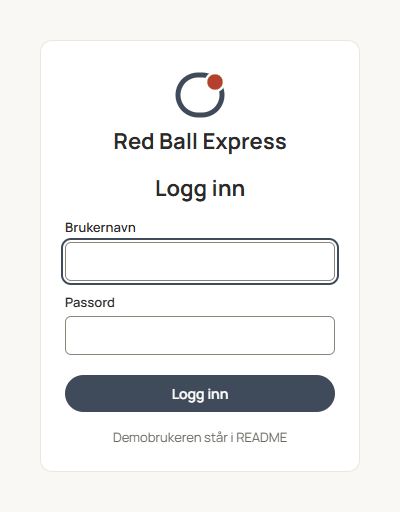
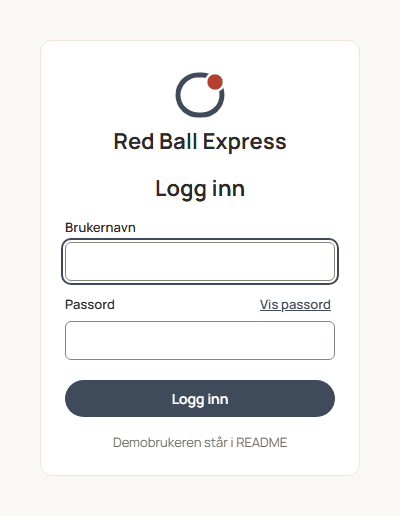
FR-1: legg til knapp for å vise og skjule passordet på innloggingssiden
Tekstknappen «Vis passord» / «Skjul passord» står til høyre for etiketten,
og passordet skjules igjen ved innsending. Skjermbildet er oppdatert.

diff --git a/frontend/src/pages/LoginPage.tsx b/frontend/src/pages/LoginPage.tsx
@@ -8,6 +8,7 @@ import "./LoginPage.css";
 type LoginError = "credentials" | "server" | null;
 
 const ERROR_ID = "login-error";
+const PASSWORD_ID = "login-password";
 
 /** Innloggingssiden `/logg-inn` (FR-1, UX-DR5). */
 export function LoginPage() {
@@ -18,6 +19,7 @@ export function LoginPage() {
   const [username, setUsername] = useState("");
   const [password, setPassword] = useState("");
   const [pending, setPending] = useState(false);
+  const [showPassword, setShowPassword] = useState(false);
   const [error, setError] = useState<LoginError>(
     notice === "server-error" ? "server" : null,
   );
@@ -39,6 +41,8 @@ export function LoginPage() {
   async function handleSubmit(event: FormEvent<HTMLFormElement>) {
     event.preventDefault();
     if (pending) return;
+    // Skjul passordet igjen før det sendes, så nettleseren ikke lagrer feltet som vanlig tekst.
+    setShowPassword(false);
     setPending(true);
     setError(null);
     try {
@@ -93,19 +97,32 @@ export function LoginPage() {
               aria-describedby={invalid ? ERROR_ID : undefined}
             />
           </label>
-          <label className="field">
-            <span className="field__label">Passord</span>
+          <div className="field">
+            <div className="field__label-row">
+              <label className="field__label" htmlFor={PASSWORD_ID}>
+                Passord
+              </label>
+              <button
+                className="field__toggle"
+                type="button"
+                aria-controls={PASSWORD_ID}
+                onClick={() => setShowPassword((shown) => !shown)}
+              >
+                {showPassword ? "Skjul passord" : "Vis passord"}
+              </button>
+            </div>
             <input
+              id={PASSWORD_ID}
               className="field__input"
               name="password"
-              type="password"
+              type={showPassword ? "text" : "password"}
               autoComplete="current-password"
               value={password}
               onChange={(event) => setPassword(event.target.value)}
               aria-invalid={invalid || undefined}
               aria-describedby={invalid ? ERROR_ID : undefined}
             />
-          </label>
+          </div>
 
           <button
             className="button-primary login-card__submit"

diff --git a/frontend/src/pages/LoginPage.css b/frontend/src/pages/LoginPage.css
@@ -56,6 +56,26 @@
   font-weight: var(--font-weight-body-strong);
 }
 
+.field__label-row {
+  display: flex;
+  align-items: center;
+  justify-content: space-between;
+}
+
+/* Vis/skjul passord: tekstknapp i aksentfargen, klikkmål minst 24 × 24 px. */
+.field__toggle {
+  min-height: 24px;
+  padding: 0 var(--space-1);
+  background: none;
+  border: none;
+  border-radius: var(--radius-sm);
+  color: var(--color-accent);
+  font-size: var(--font-size-small);
+  font-weight: var(--font-weight-body-strong);
+  text-decoration: underline;
+  cursor: pointer;
+}
+
 .field__input {
   width: 100%;
   min-height: 36px;
